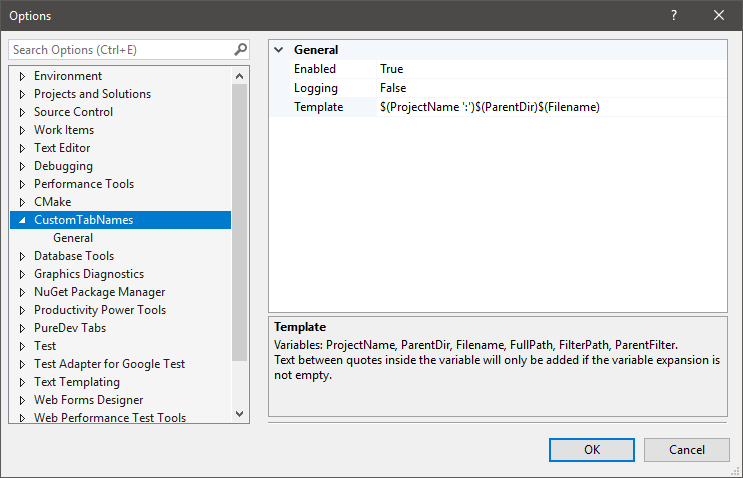
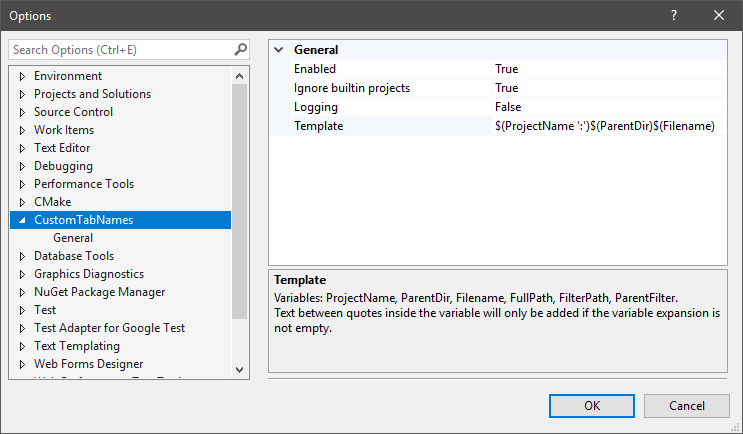
added ignore builtin projects option fixed Template option not resetting to default when set to empty

diff --git a/src/Options.cs b/src/Options.cs
@@ -18,18 +18,21 @@ namespace CustomTabNames
 			public const bool Enabled = true;
 			public const string Template =
 				"$(ProjectName ':')$(ParentDir)$(Filename)";
+			public const bool IgnoreBuiltinProjects = true;
 			public const bool Logging = false;
 		}
 
-		private bool enabled    = Defaults.Enabled;
+		private bool enabled = Defaults.Enabled;
 		private string template = Defaults.Template;
-		private bool logging    = Defaults.Logging;
+		private bool ignoreBuiltinProjects = Defaults.IgnoreBuiltinProjects;
+		private bool logging = Defaults.Logging;
 
 
 		public delegate void Handler();
 
 		// fired when the various options change
-		public event Handler EnabledChanged, TemplateChanged, LoggingChanged;
+		public event Handler EnabledChanged, TemplateChanged;
+		public event Handler IgnoreBuiltinProjectsChanged, LoggingChanged;
 
 
 		[Category(Strings.OptionsCategory)]
@@ -70,8 +73,29 @@ namespace CustomTabNames
 
 				if (template != v)
 				{
-					template = value;
+					template = v;
 					TemplateChanged?.Invoke();
+				}
+			}
+		}
+
+		[Category(Strings.OptionsCategory)]
+		[DisplayName(Strings.OptionIgnoreBuiltinProjects)]
+		[Description(Strings.OptionIgnoreBuiltinProjectsDescription)]
+		[DefaultValue(Defaults.IgnoreBuiltinProjects)]
+		public bool IgnoreBuiltinProjects
+		{
+			get
+			{
+				return ignoreBuiltinProjects;
+			}
+
+			set
+			{
+				if (ignoreBuiltinProjects != value)
+				{
+					ignoreBuiltinProjects  = value;
+					IgnoreBuiltinProjectsChanged?.Invoke();
 				}
 			}
 		}
@@ -96,6 +120,5 @@ namespace CustomTabNames
 				}
 			}
 		}
-
 	}
 }

diff --git a/src/CustomTabNames.cs b/src/CustomTabNames.cs
@@ -85,6 +85,7 @@ namespace CustomTabNames
 			Options = (Options)GetDialogPage(typeof(Options));
 			Options.EnabledChanged += OnEnabledChanged;
 			Options.TemplateChanged += OnTemplateChanged;
+			Options.IgnoreBuiltinProjectsChanged += OnIgnoreBuiltinProjectsChanged;
 
 			if (Options.Enabled)
 			{
@@ -146,7 +147,7 @@ namespace CustomTabNames
 			if (!Options.Enabled)
 				return;
 
-			Logger.Log("template options changed");
+			Logger.Log("template option changed");
 			FixAllDocuments();
 		}
 
@@ -161,6 +162,20 @@ namespace CustomTabNames
 				Start();
 			else
 				Stop();
+		}
+
+		// fired when the ignore builtin projects option changed, fixes all
+		// currently opened documents
+		//
+		private void OnIgnoreBuiltinProjectsChanged()
+		{
+			ThreadHelper.ThrowIfNotOnUIThread();
+
+			if (!Options.Enabled)
+				return;
+
+			Logger.Log("ignore builtin projects option changed");
+			FixAllDocuments();
 		}
 
 		// fired when a document or window has been opened

diff --git a/src/Variables.cs b/src/Variables.cs
@@ -25,6 +25,15 @@ namespace CustomTabNames
 			// update Strings.OptionTemplateDescription when changing this list
 		};
 
+		// built-in projects that can be ignored
+		//
+		public static List<string> BuiltinProjects = new List<string>()
+		{
+			Constants.vsProjectKindMisc,
+			Constants.vsProjectKindSolutionItems,
+			Constants.vsProjectKindUnmodeled
+		};
+
 
 		// expands all variables on the given template
 		//
@@ -115,11 +124,17 @@ namespace CustomTabNames
 		{
 			ThreadHelper.ThrowIfNotOnUIThread();
 
-			var pname = d?.ProjectItem?.ContainingProject?.Name;
-			if (pname == null)
+			var p = d?.ProjectItem?.ContainingProject;
+			if (p == null)
 				return "";
 
-			return pname;
+			if (CustomTabNames.Instance.Options.IgnoreBuiltinProjects)
+			{
+				if (BuiltinProjects.Contains(p.Kind))
+					return "";
+			}
+
+			return p.Name;
 		}
 
 		// returns the parent directory of the document's file with a slash at

diff --git a/src/Strings.cs b/src/Strings.cs
@@ -36,6 +36,11 @@
 			"variable will only be added if the variable expansion is not " +
 			"empty.";
 
+		public const string OptionIgnoreBuiltinProjects =
+			"Ignore builtin projects";
+		public const string OptionIgnoreBuiltinProjectsDescription =
+			"Don't display builtin project names like 'Miscellaneous Files'";
+
 		public const string OptionLogging = "Logging";
 		public const string OptionLoggingDescription =
 			"Whether logging to output window is enabled";

diff --git a/README.md b/README.md
@@ -5,7 +5,7 @@ This extension allows for changing the caption on editor tabs based on a templat
 ## Template
 The template is made of variables with the form `$(VariableName)`. Those are replaced by the appropriate value. Anything outside variables is kept verbatim.
 
-Variables can also contain a single-quoted string: `$(VariableName 'string')`. The string will be appended to the variable expansion if it is not empty. This is useful for putting a separator only if the variable is not empty. For example, `$(ProjectName):$(Filename)` will expand to `project:file.ext` if the file is in a project, but to `:file.exe` if it's not. Putting the colon inside the variable name fixes it: `$(ProjectName ':')$(Filename)` exapands to `file.exe` if the file is not in a project.
+Variables can also contain a single-quoted string: `$(VariableName 'string')`. The string will be appended to the variable expansion if it is not empty. This is useful for putting a separator only if the variable is not empty. For example, `$(ProjectName):$(Filename)` will expand to `project:file.ext` if the file is in a project, but to `:file.exe` if it's not. Putting the colon inside the variable name fixes it: `$(ProjectName ':')$(Filename)` expands to `file.exe` if the file is not in a project.
 
 ## Variables
 These variables can be used in the template:
@@ -36,11 +36,14 @@ Options are under the item 'CustomTabNames' in the Options dialog.
 #### Enabled
 If false, all tabs are restored to showing the filename. Defaults to `true`.
 
-#### Template
-The template string used to generate captions. Defaults to `$(ProjectName ':')$(ParentDir)$(Filename)`.
+#### Ignore builtin projects
+Some items are under dummy projects. For example, opening a file that's not in the solution puts it under a project named "Miscellaneous files", which would appear with `$(ProjectName)`. When `true`, these dummy projects are ignored and `$(ProjectName)` will expand to an empty string. Defaults to `true`.
 
 #### Logging
 If true, a new entry 'CustomTabNames' is created in the Output window with logs from this extension. Defaults to `false`.
+
+#### Template
+The template string used to generate captions. Defaults to `$(ProjectName ':')$(ParentDir)$(Filename)`.
 
 ## Building
 Clone the project, open `CustomTabNames.sln`, build with the Release configuration. Open `bin/Release/CustomTabNames.vsix`, select the appropriate Visual Studio versions, and install. Tested on 2017 and 2019.
